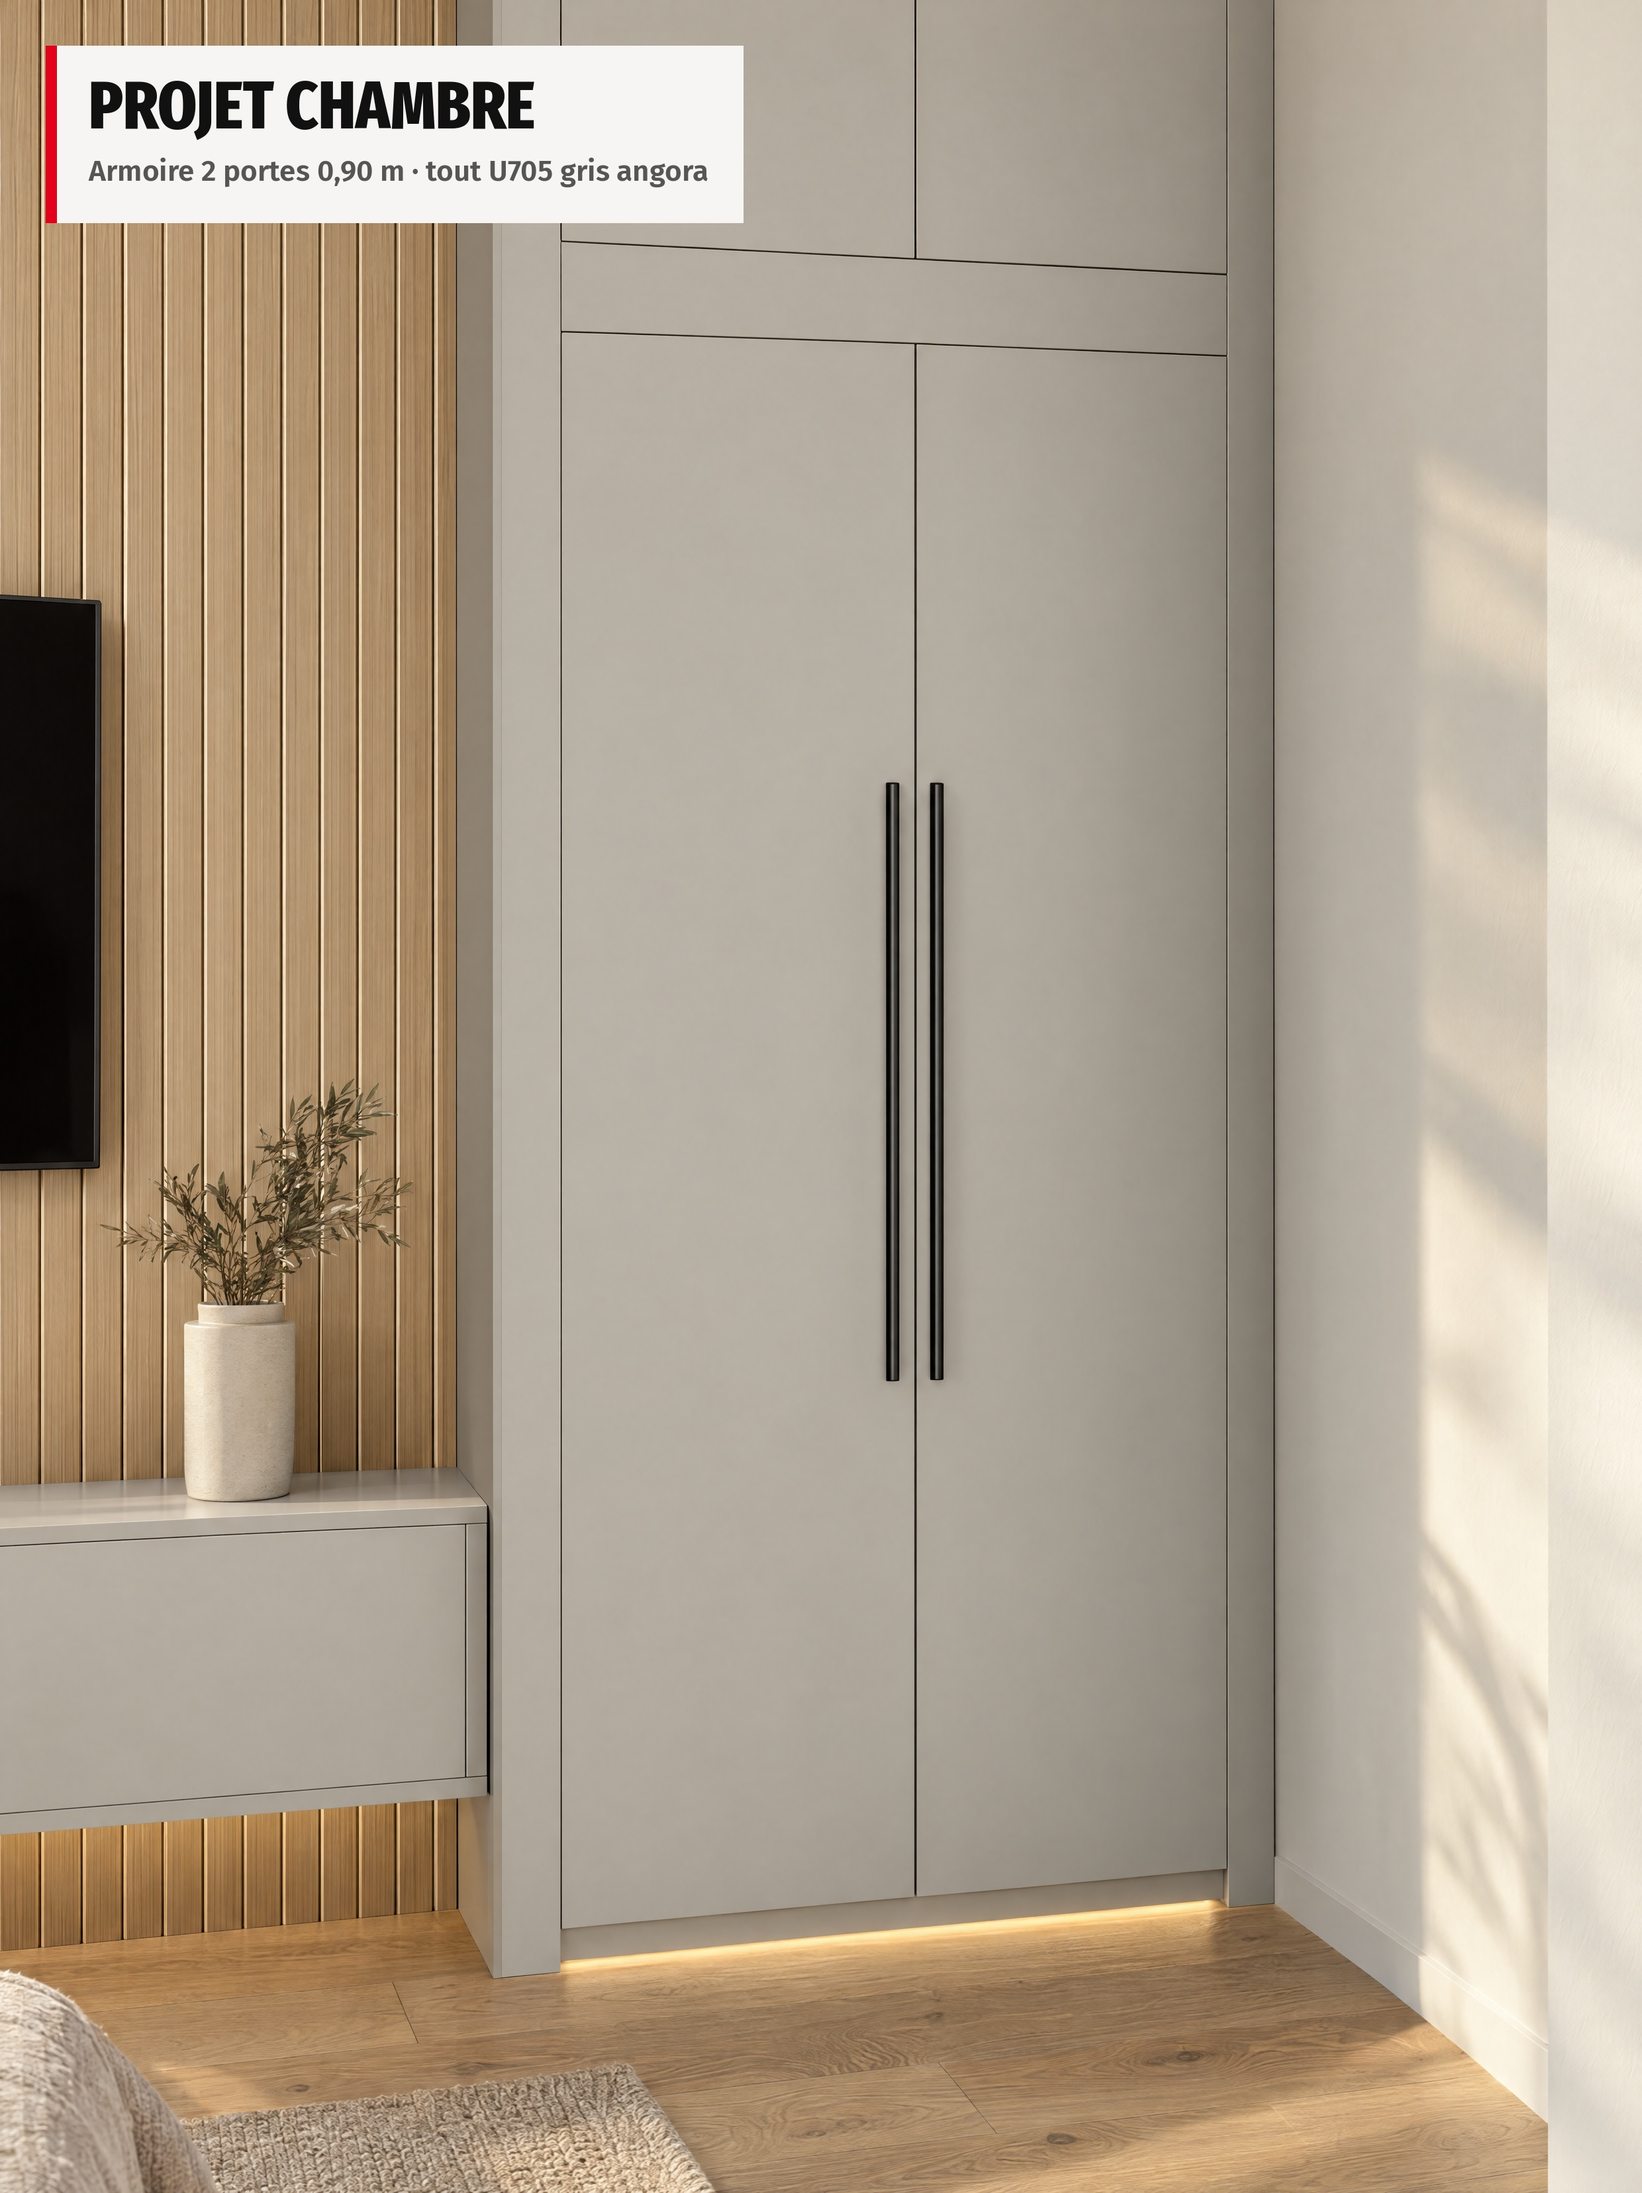
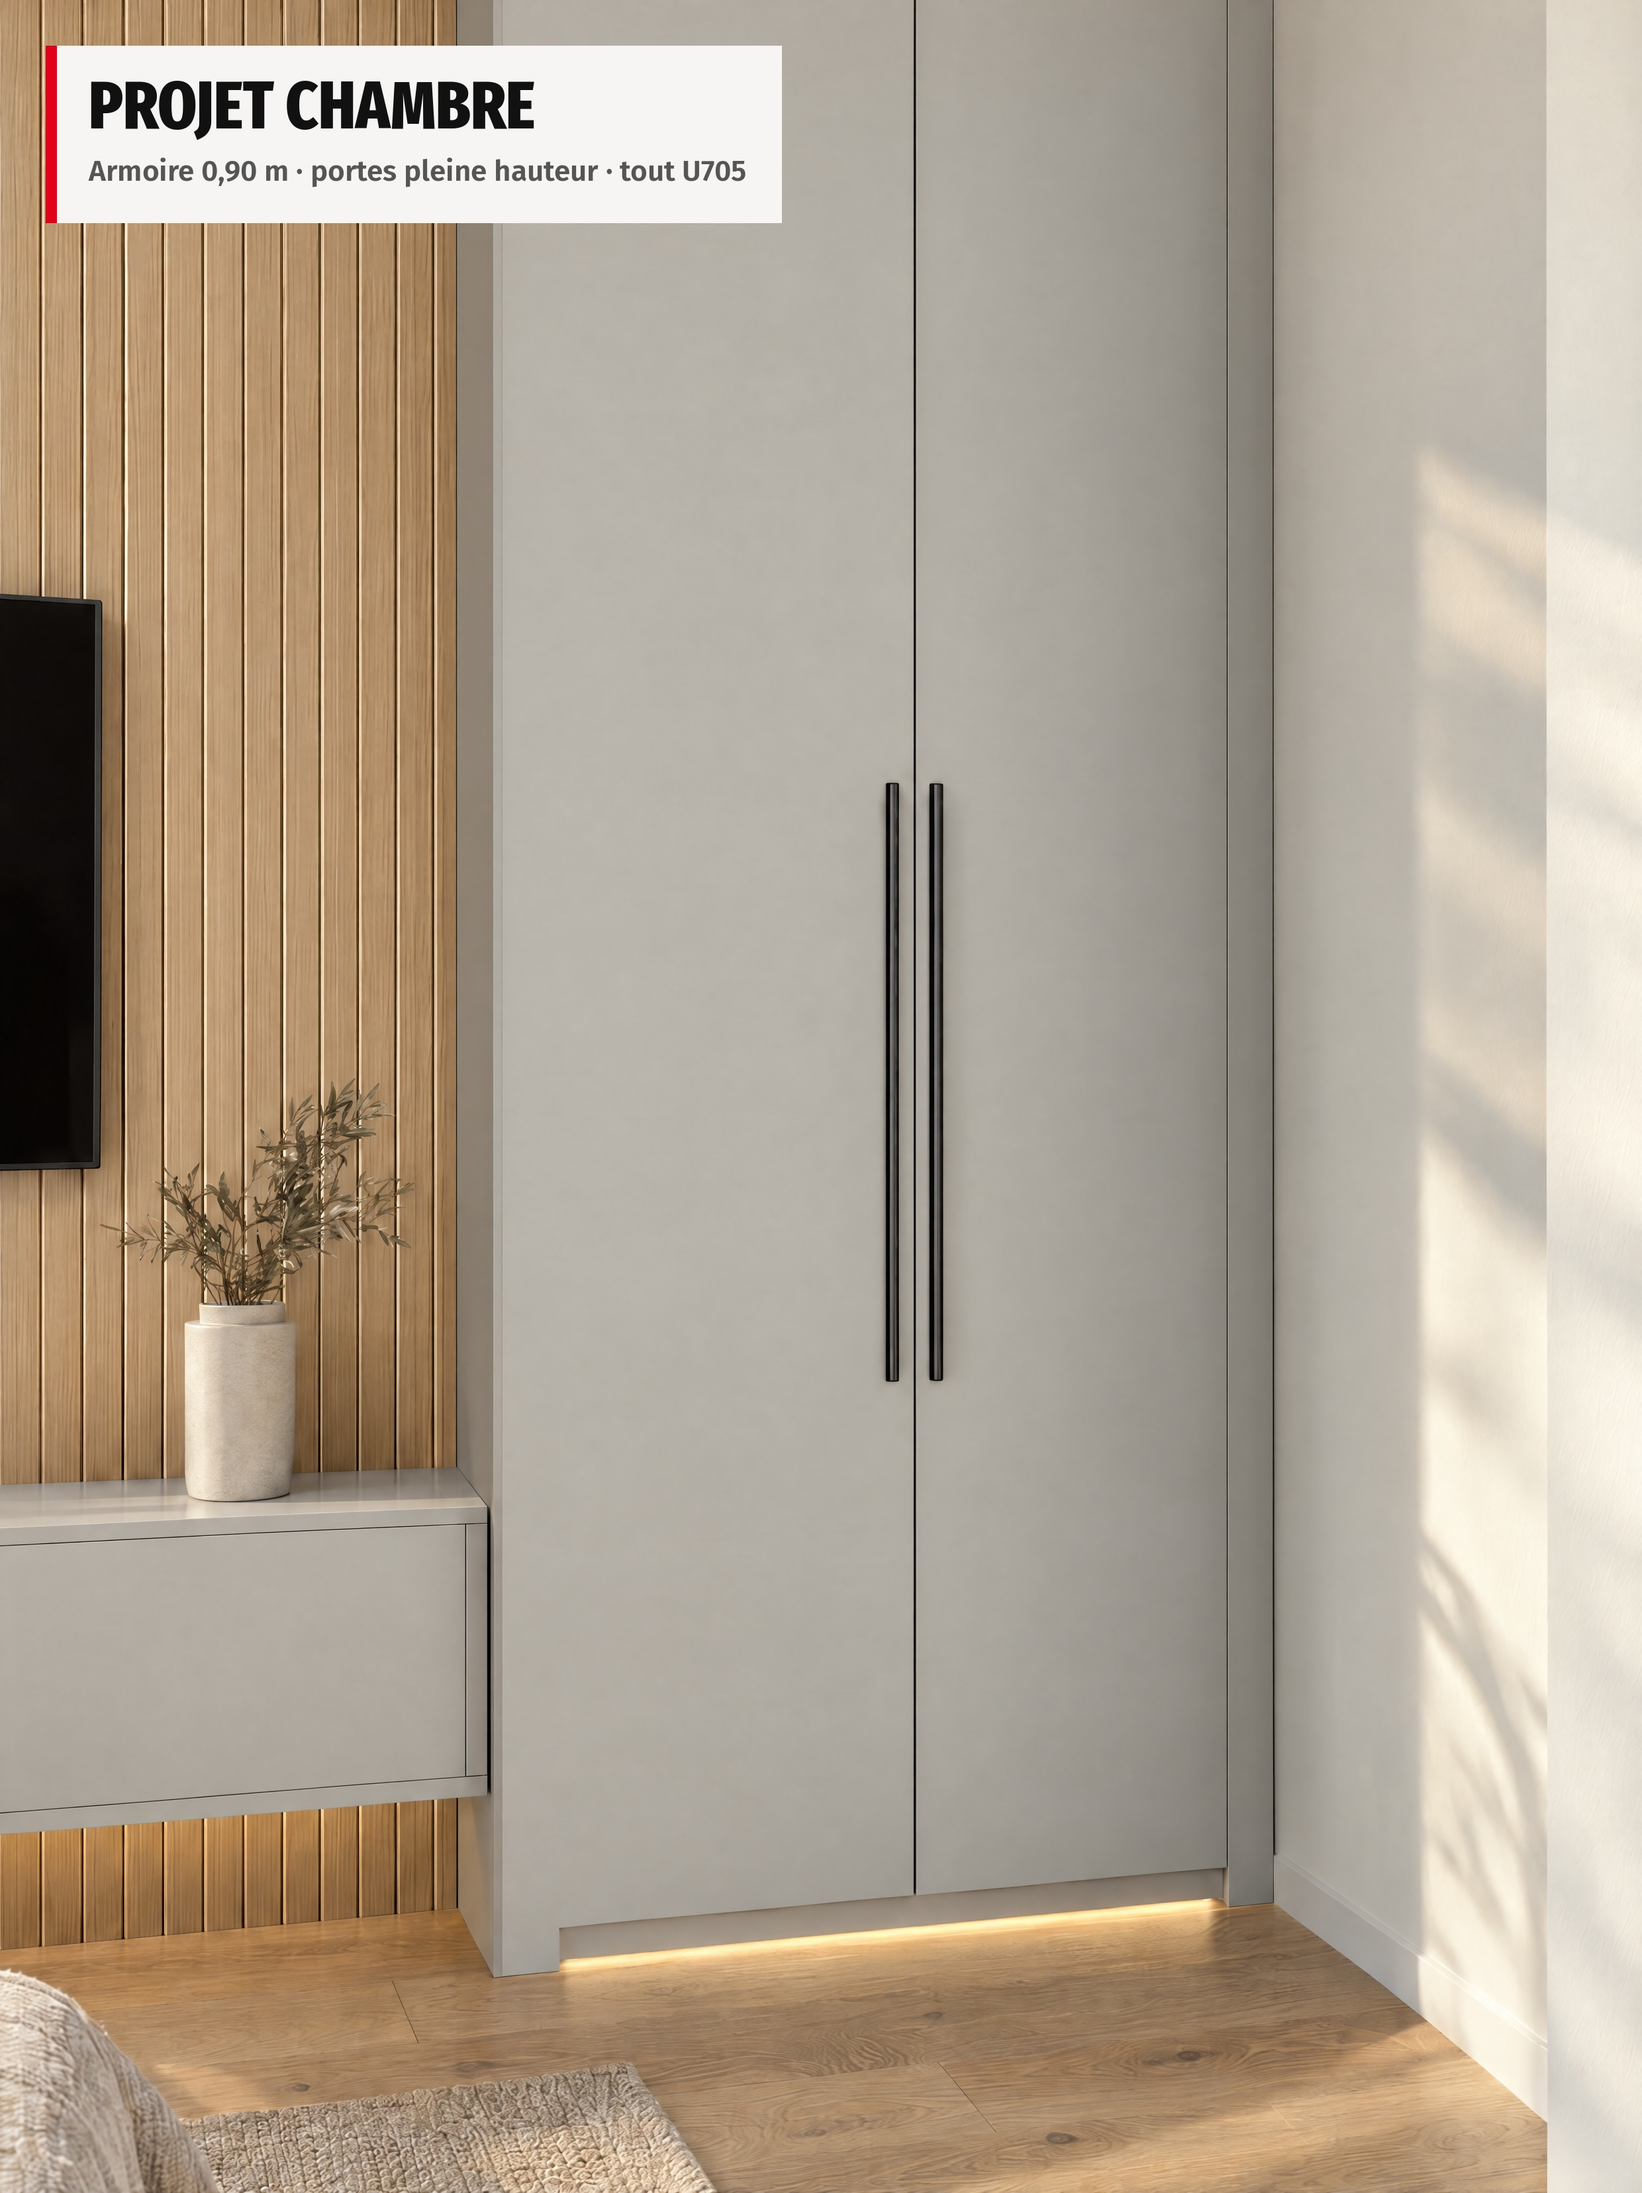
Chambre : portes pleine hauteur sur placard 2490 et armoire 900 (photos 4K + 3D)
Claude-Session: https://claude.ai/code/session_01XoeDEVkNFXq4oExWHbkpus

diff --git a/ads/meubles/chambre-H1357-U705/bedroom.html b/ads/meubles/chambre-H1357-U705/bedroom.html
@@ -83,13 +83,12 @@ const y1 = Hb, y2 = y1 + Hd, y3 = y2 + Hband, y4 = y3 + Htop, y5 = y4 + Hcap;  /
 bx(0, y1, z0 + 70, WD - 30, y4, ZB - 70, M.caisson);                           // carcass
 bx(0, 0, z0, WD + T, y5, z0 + 70, M.u705, 2);                                   // side 70
 bx(0, 0, ZB - 70, WD + T, y5, ZB, M.u705, 2);                                   // side 70
-bx(0, y1, z0 + 70 + 1110, WD + T, y2, z0 + 70 + 1110 + 130, M.u705, 2); bx(0, y3, z0 + 70 + 1110, WD + T, y4, z0 + 70 + 1110 + 130, M.u705, 2); // middle 130
+bx(0, y1, z0 + 70 + 1110, WD + T, y4, z0 + 70 + 1110 + 130, M.u705, 2); // middle 130
 bx(0, 0, z0 + 70, WD + T, y1, ZB - 70, M.u705);                                 // base
-bx(0, y2, z0 + 70, WD + T, y3, ZB - 70, M.u705, 2);                             // band 110
+
 bx(0, y4, z0 + 70, WD + T, y5, ZB - 70, M.u705, 2);                             // top cap
 for (const b0 of [z0 + 70, z0 + 70 + 1110 + 130]) {
-  frontPX(b0, b0 + 555, y1, y2, WD, M.u705); frontPX(b0 + 555, b0 + 1110, y1, y2, WD, M.u705);
-  frontPX(b0, b0 + 555, y3, y4, WD, M.u705); frontPX(b0 + 555, b0 + 1110, y3, y4, WD, M.u705);
+  frontPX(b0, b0 + 555, y1, y4, WD, M.u705); frontPX(b0 + 555, b0 + 1110, y1, y4, WD, M.u705);
   // long black bar handles
   bx(WD + T, 900, b0 + 530, WD + T + 16, 1600, b0 + 542, M.noir, 3); bx(WD + T, 900, b0 + 568, WD + T + 16, 1600, b0 + 580, M.noir, 3);
 }
@@ -98,9 +97,8 @@ for (const b0 of [z0 + 70, z0 + 70 + 1110 + 130]) {
 const AX0 = XR - 900, AD = 600;
 bx(AX0 + 70, y1, 0, XR - 70, y4, AD - 30, M.caisson);
 bx(AX0, 0, 0, AX0 + 70, y5, AD + T, M.u705, 2); bx(XR - 70, 0, 0, XR, y5, AD + T, M.u705, 2);
-bx(AX0 + 70, 0, 0, XR - 70, y1, AD + T, M.u705); bx(AX0 + 70, y2, 0, XR - 70, y3, AD + T, M.u705, 2); bx(AX0 + 70, y4, 0, XR - 70, y5, AD + T, M.u705, 2);
-frontPZ(AX0 + 70, AX0 + 450, y1, y2, AD, M.u705); frontPZ(AX0 + 450, XR - 70, y1, y2, AD, M.u705);
-frontPZ(AX0 + 70, AX0 + 450, y3, y4, AD, M.u705); frontPZ(AX0 + 450, XR - 70, y3, y4, AD, M.u705);
+bx(AX0 + 70, 0, 0, XR - 70, y1, AD + T, M.u705); bx(AX0 + 70, y4, 0, XR - 70, y5, AD + T, M.u705, 2);
+frontPZ(AX0 + 70, AX0 + 450, y1, y4, AD, M.u705); frontPZ(AX0 + 450, XR - 70, y1, y4, AD, M.u705);
 bx(AX0 + 425, 900, AD + T, AX0 + 437, 1600, AD + T + 16, M.noir, 3); bx(AX0 + 463, 900, AD + T, AX0 + 475, 1600, AD + T + 16, M.noir, 3);
 
 // LED material (warm indirect light lines)
